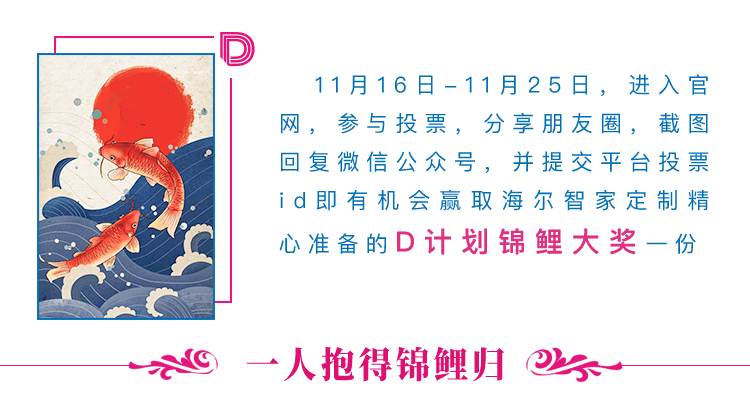
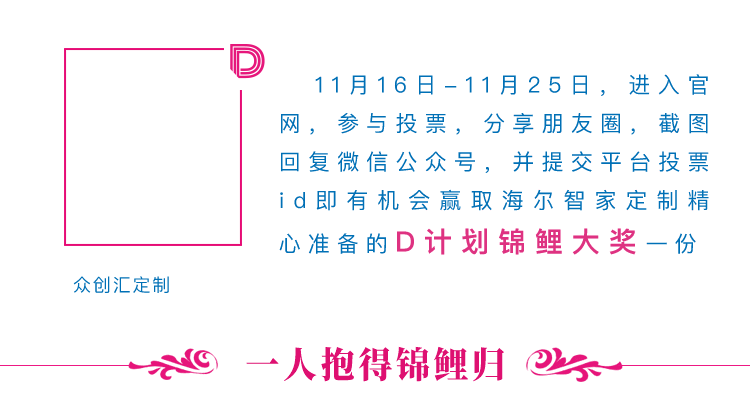
1

Changed region(s): [[0.0307, 0.0585, 0.368, 0.7902]]

diff --git a/css/toupiao.css b/css/toupiao.css
@@ -14,9 +14,18 @@ body section > div:nth-child(1) {
 }
 html section > div:nth-child(2),
 body section > div:nth-child(2) {
+  position: relative;
   height: 4.1rem;
   background: url(../images/tou_bg_02.png) center no-repeat;
   background-size: cover;
+}
+html section > div:nth-child(2) img,
+body section > div:nth-child(2) img {
+  position: absolute;
+  top: .72rem;
+  left: .32rem;
+  width: 1.95rem;
+  height: 1.95rem;
 }
 html section > div:nth-child(3),
 body section > div:nth-child(3) {

diff --git a/.history/css/toupiao_20181119130033.less b/.history/css/toupiao_20181119130033.less
@@ -14,11 +14,7 @@ html,body{
                 background: url(../images/tou_bg_02.png) center no-repeat;
                 background-size: cover;
                 img{
-                    position: absolute;
-                    top: .72rem;
-                    left: .32rem;
-                    width: 1.95rem;
-                    height: 1.95rem;
+
                 }
             }
             &:nth-child(3){

diff --git a/.history/css/toupiao_20181119130039.less b/.history/css/toupiao_20181119130039.less
@@ -15,10 +15,6 @@ html,body{
                 background-size: cover;
                 img{
                     position: absolute;
-                    top: .72rem;
-                    left: .32rem;
-                    width: 1.95rem;
-                    height: 1.95rem;
                 }
             }
             &:nth-child(3){
